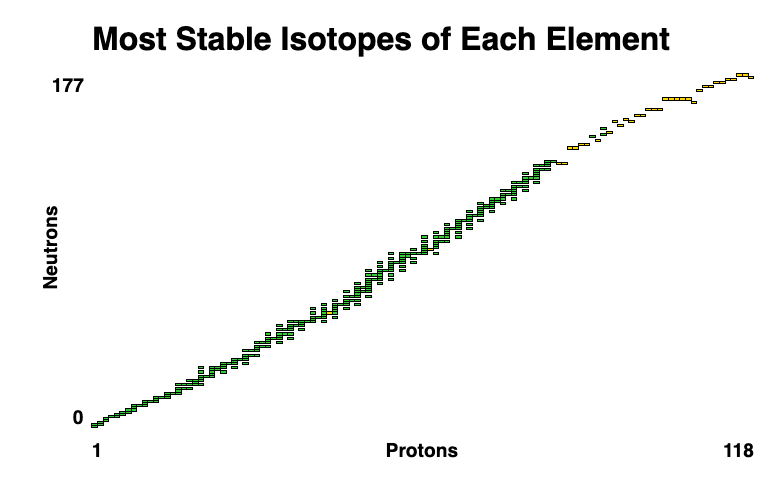
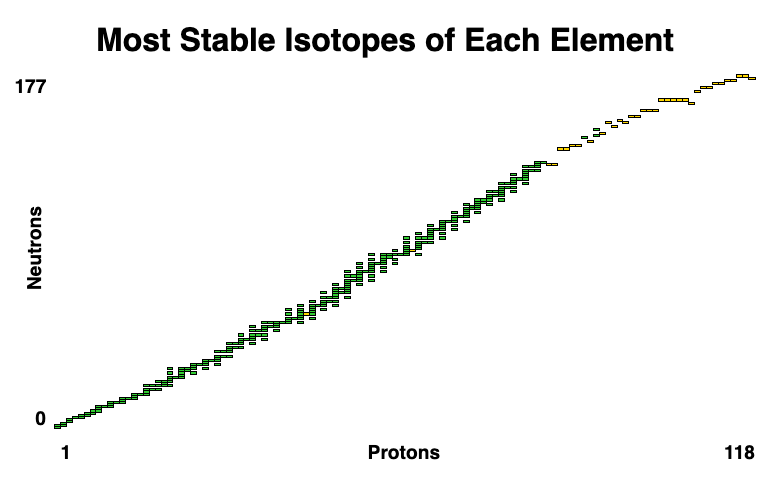
Reduce the y-axis label width.

diff --git a/client/main.css b/client/main.css
@@ -198,7 +198,8 @@ td.empty {
     text-align: left;
 }
 .isotopes th.y-axis.label {
-    transform: rotate(-90deg);
+    transform: rotate(180deg);
+    writing-mode: vertical-rl;
 }
 .isotopes th.y-axis.max,
 .isotopes th.y-axis.min {
